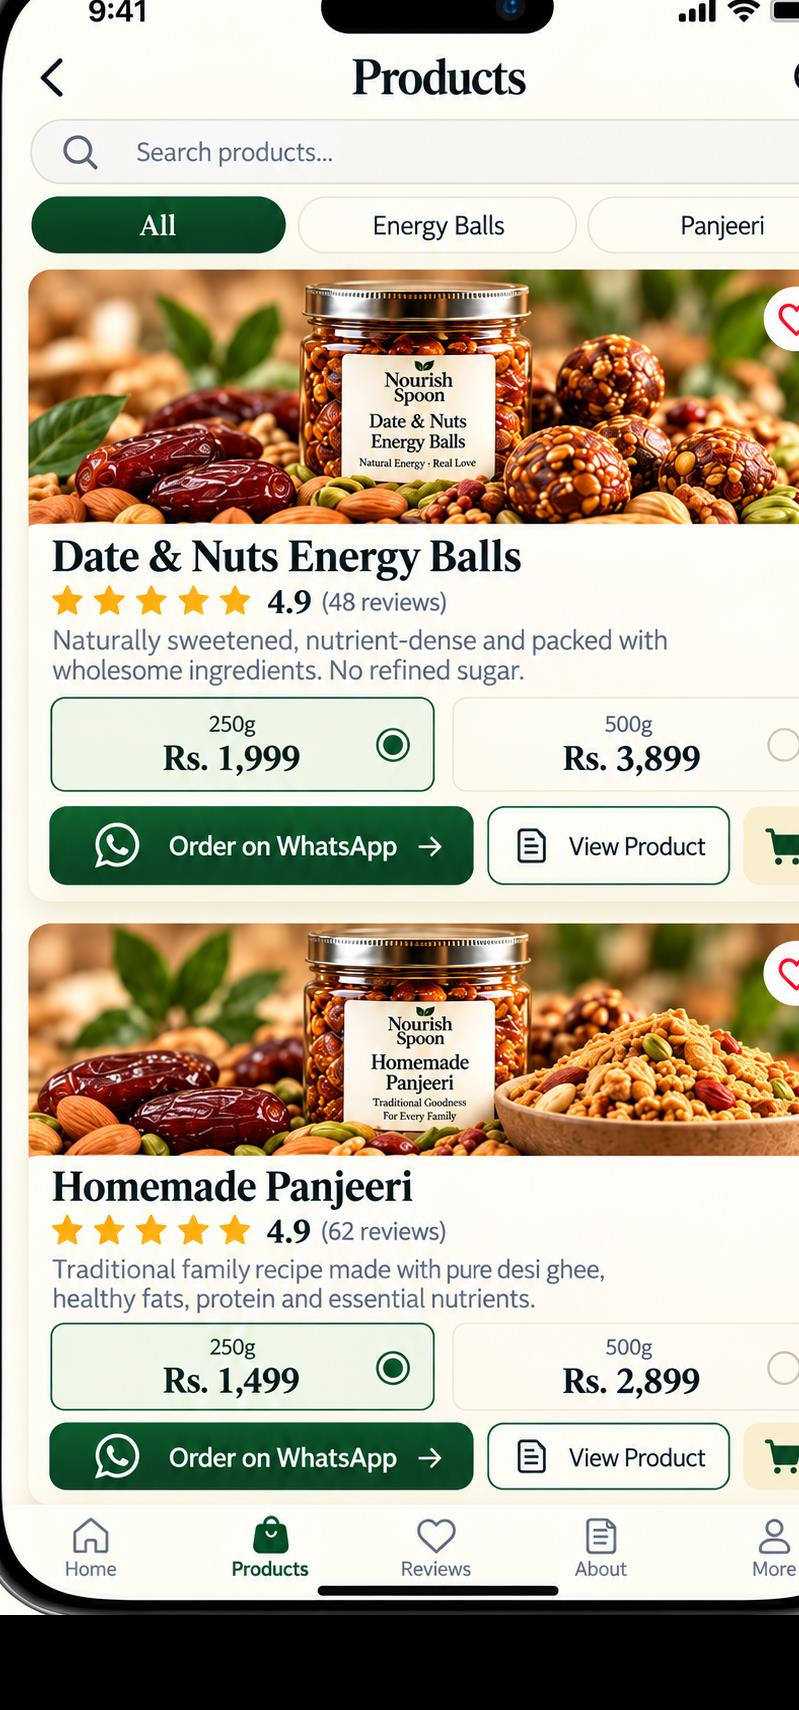
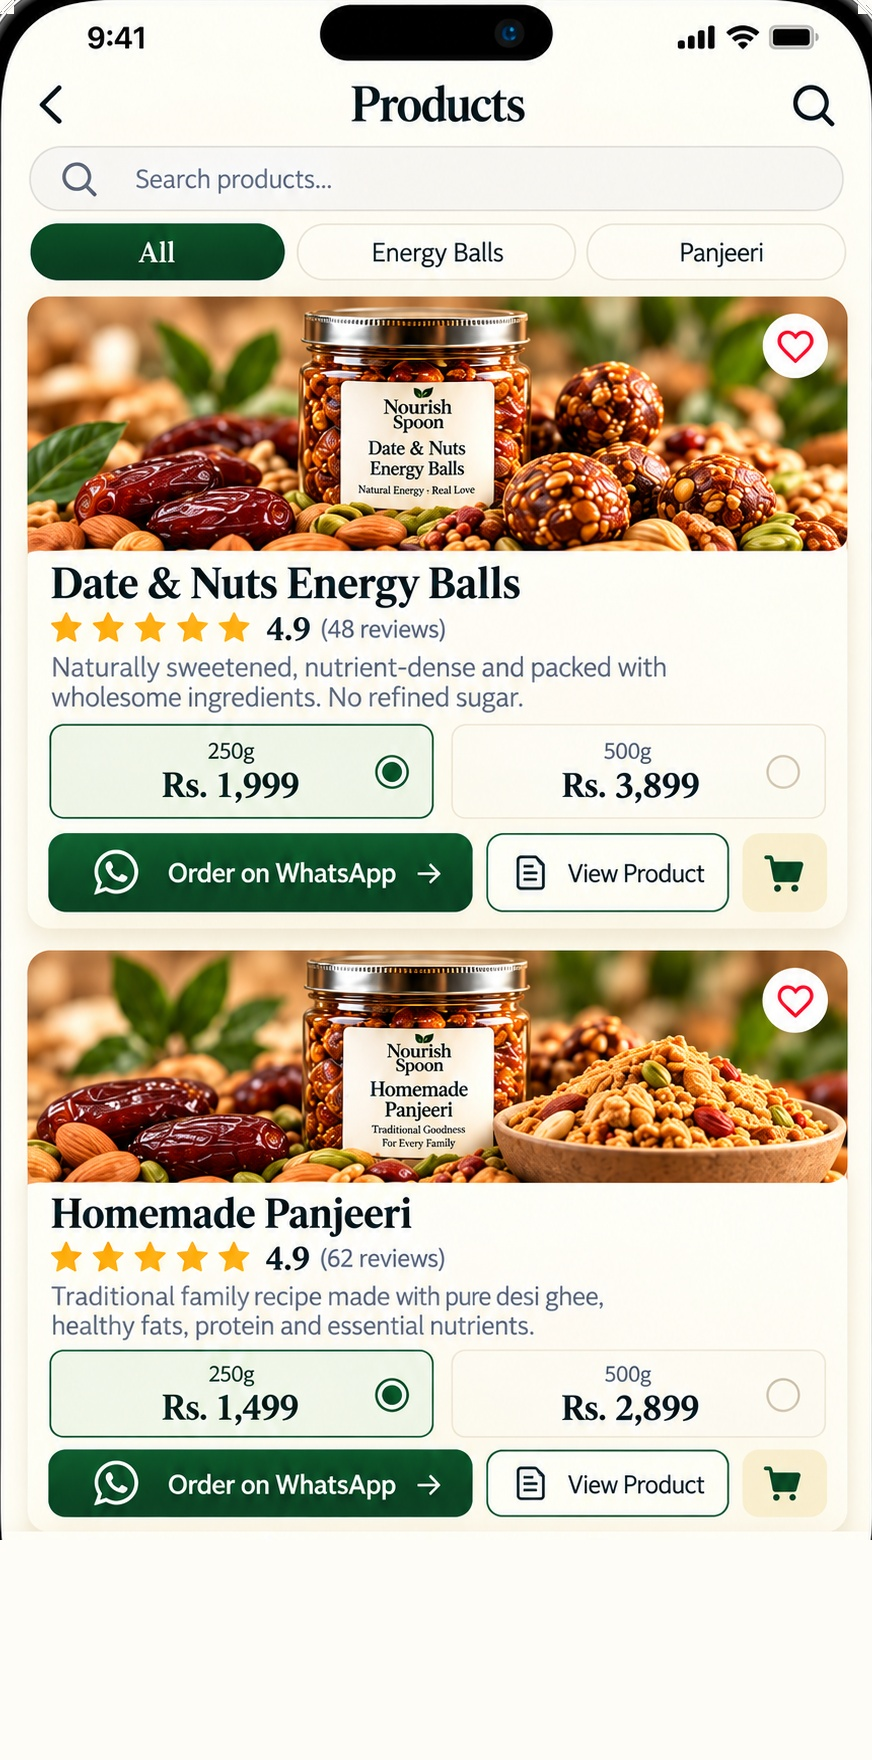
fix: rebuild Products artwork from the shared design mockup

diff --git a/src/features/products/ShopScreen.tsx b/src/features/products/ShopScreen.tsx
@@ -130,72 +130,72 @@ const styles = StyleSheet.create({
   },
   card1Zone: {
     position: 'absolute',
-    top: '16%',
-    left: '3.5%',
-    width: '92.5%',
-    height: '31%',
+    top: '19%',
+    left: '3%',
+    width: '94%',
+    height: '28%',
   },
   heart1Zone: {
     position: 'absolute',
-    top: '17.4%',
-    left: '82%',
-    width: '12%',
-    height: '5%',
+    top: '18.5%',
+    left: '88%',
+    width: '9%',
+    height: '6%',
   },
   wa1Zone: {
     position: 'absolute',
-    top: '47.2%',
-    left: '6%',
-    width: '49.4%',
-    height: '4.2%',
+    top: '48%',
+    left: '5%',
+    width: '57%',
+    height: '3.5%',
   },
   view1Zone: {
     position: 'absolute',
-    top: '47.2%',
-    left: '57.3%',
-    width: '30%',
-    height: '4.2%',
+    top: '48%',
+    left: '64%',
+    width: '23.5%',
+    height: '3.5%',
   },
   cart1Zone: {
     position: 'absolute',
-    top: '46.9%',
-    left: '89%',
-    width: '8.5%',
-    height: '4.8%',
+    top: '48%',
+    left: '89.5%',
+    width: '8%',
+    height: '3.5%',
   },
   card2Zone: {
     position: 'absolute',
-    top: '55.4%',
-    left: '3.5%',
-    width: '92.5%',
-    height: '30.5%',
+    top: '54.5%',
+    left: '3%',
+    width: '94%',
+    height: '28%',
   },
   heart2Zone: {
     position: 'absolute',
-    top: '56.8%',
-    left: '82%',
-    width: '12%',
-    height: '5%',
+    top: '54%',
+    left: '88%',
+    width: '9%',
+    height: '6%',
   },
   wa2Zone: {
     position: 'absolute',
-    top: '86.9%',
-    left: '6%',
-    width: '49.4%',
-    height: '4.2%',
+    top: '83.5%',
+    left: '5%',
+    width: '57%',
+    height: '3.5%',
   },
   view2Zone: {
     position: 'absolute',
-    top: '86.9%',
-    left: '57.3%',
-    width: '30%',
-    height: '4.2%',
+    top: '83.5%',
+    left: '64%',
+    width: '23.5%',
+    height: '3.5%',
   },
   cart2Zone: {
     position: 'absolute',
-    top: '86.6%',
-    left: '89%',
-    width: '8.5%',
-    height: '4.8%',
+    top: '83.5%',
+    left: '89.5%',
+    width: '8%',
+    height: '3.5%',
   },
 });

diff --git a/docs/AUDIT.md b/docs/AUDIT.md
@@ -81,3 +81,26 @@ All fixes below are functional, not visual — pixel fidelity to the canonical m
 - Design fidelity: bundled `full-*.jpg` artwork verified pixel-for-pixel against
   the 15 canonical mockups (home, login, products spot-checked); all changes are
   functional, none restyle the approved designs.
+
+## Follow-up: bottom tab bar placement + Products full-bleed (2026-10-06)
+
+- The bottom tab bar is now absolutely positioned over screen content
+  (`BottomTabBar`), so the single real tab bar sits exactly where the
+  mockups show it, covering the tab bar baked into the full-screen
+  artwork. Previously the baked bar and the real bar rendered as two
+  stacked bars, and the Products screen floated the real bar below a
+  dead gap.
+- `ShopScreen` no longer double-applies the top safe-area inset and no
+  longer pads by the tab-bar height; the Products artwork renders
+  full-bleed edge-to-edge like the supplied Products mockup (verified:
+  bundled `full-products.jpg` matches the shared design — same cards,
+  prices Rs. 1,999/3,899 and Rs. 1,499/2,899, same tab order). The
+  invisible tap zones were authored against the full-bleed artwork
+  (card 2 ends at 85.9%, baked tab bar starts ~93%), so this also
+  restores their alignment.
+- Native tab/stack screens (Reviews, About, More, ProductReviews,
+  WriteReview) now clear the overlaid tab bar via
+  `useBottomTabBarHeight()`; WhatsAppOrder's CTA bar is lifted above it.
+- Pushed to `ux-audit-fixes` via the GitHub API as 9e95505 (same tree
+  as local f440025; git-over-HTTPS had no credential helper in this
+  environment).
